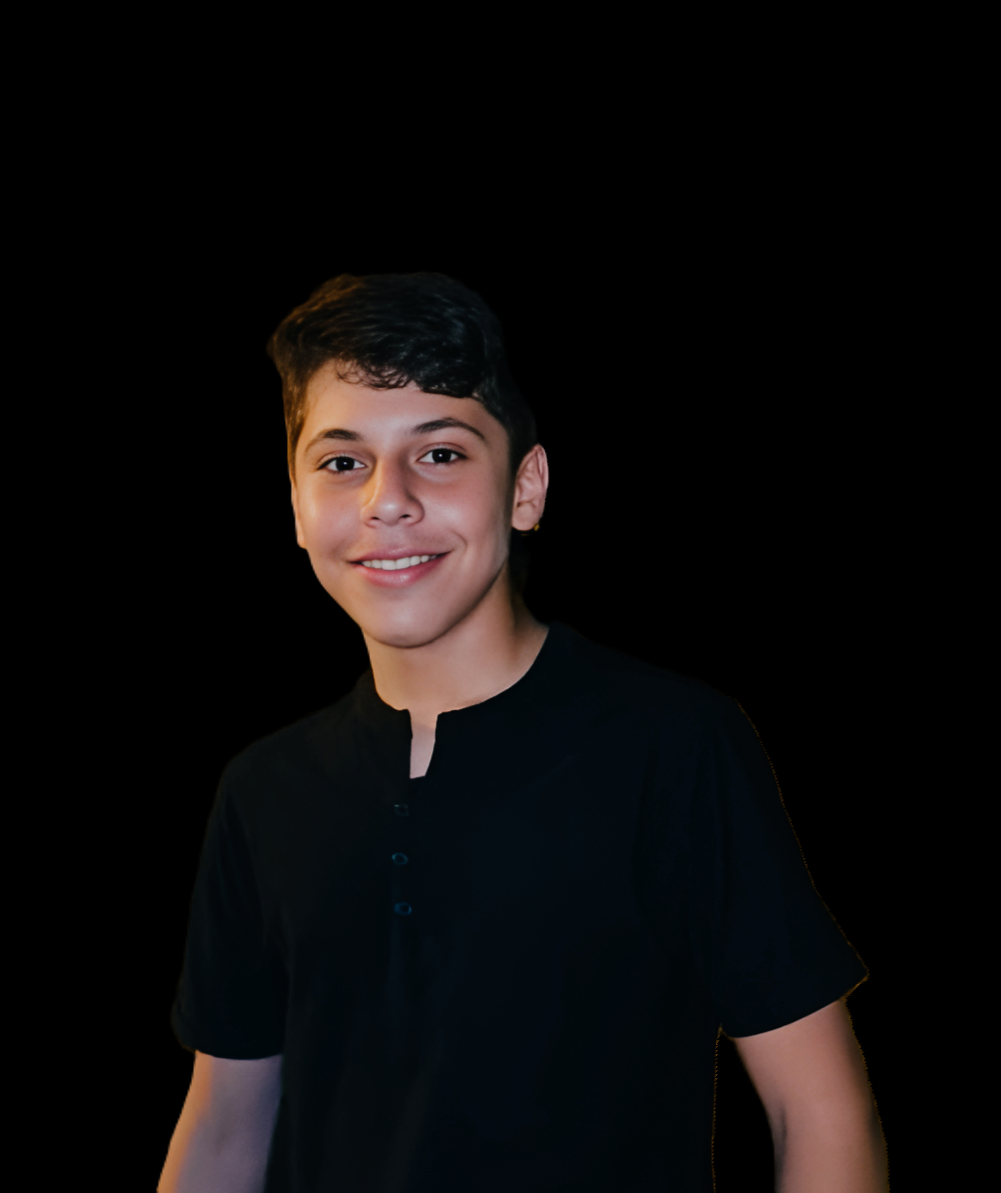
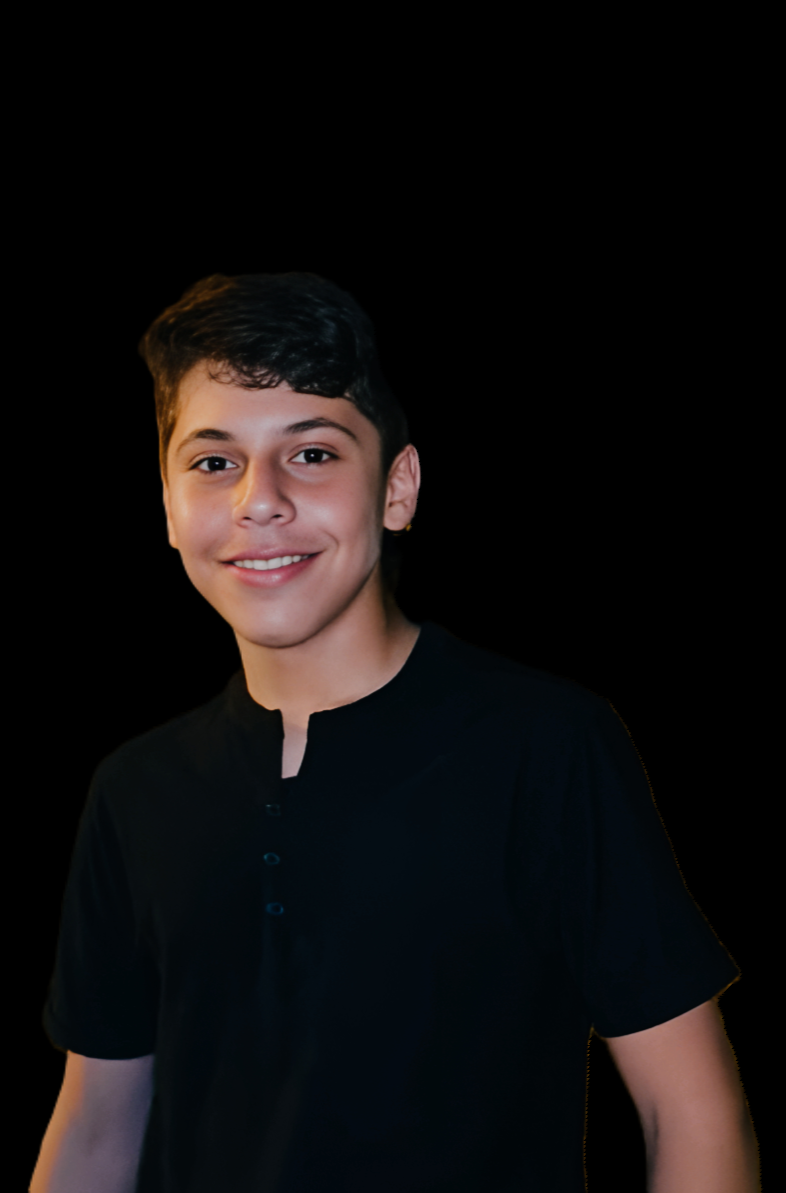
image layout v2

Changed region(s): [[0.1832, 0.2171, 0.5496, 0.6513], [0.7328, 0.8064, 0.9771, 1.0], [0.0305, 0.8684, 0.3053, 1.0]]

diff --git a/index.html b/index.html
@@ -56,9 +56,9 @@
 	<div class="container">
 		<div class="row d-flex">
 			<div class="col-md-6 col-lg-5 d-flex">
-				<div class="img-about img d-flex align-items-stretch">
+				<div class="img-about img d-flex align-items-center">
 					<div class="overlay"></div>
-					<div class="img d-flex align-self-stretch align-items-center" ><img src="images/DaaminNoBG.png" width="500" height="600" style="position: relative; bottom: 200px; right: 50px;">
+					<div class="img d-flex align-self-stretch align-items-center" ><img src="images/DaaminNoBG.png" width="device-width" height="600" style="position: relative; bottom: 200px; ">
 					</div>
 				</div>
 			</div>
